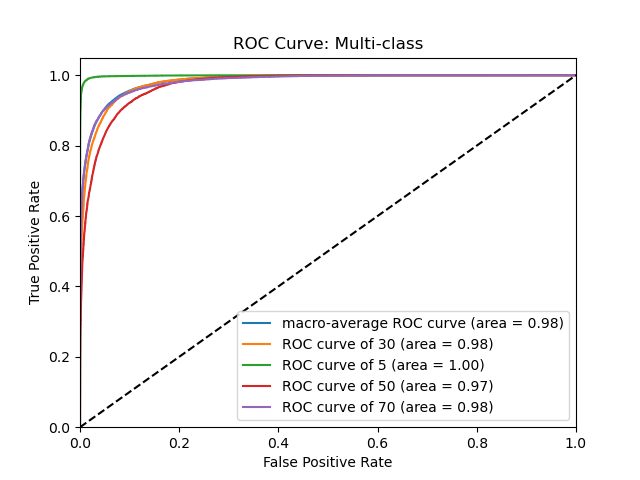
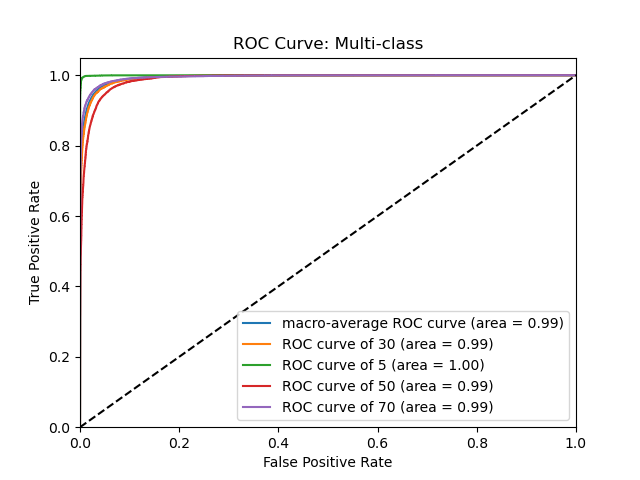
fixed issues

diff --git a/Code/config.py b/Code/config.py
@@ -24,7 +24,7 @@ config_dict = {
             "sex_type": "all",         # Options: 'all', 'male', 'female'
         },
         "Sampling": {
-            "num_samples": 289981,       # Number of samples (cells) for training (total = 289981)
+            "num_samples": 268000,       # Number of samples (cells) for training (total = 289981)
             "num_variables": 15992,    # Number of variables (genes) for training (total = 15992)
         },
         "Filtering": {
@@ -90,8 +90,8 @@ config_dict = {
     },
     "DataSplit": {
         "validation_split": 0.2,          # Fraction of data for validation
-        "test_split": 0.2,                # Fraction of data for testing
-        "random_state": 42,               # Random state for reproducibility
+        "test_split": 0.1611,                # Fraction of data for testing
+        "random_state": 999,               # Random state for reproducibility
     },
     "Training": {
         "epochs": 15,                      # Number of epochs for training

diff --git a/Code/preprocess.py b/Code/preprocess.py
@@ -468,6 +468,7 @@ class DataPreprocessor:
         config = self.config
 
         adata = self.process_adata(self.adata)
+        print(f"adata data size: {adata.shape}")
         adata_corrected = self.process_adata(self.adata_corrected)
 
         # Decide which dataset to use

diff --git a/Code/utilities.py b/Code/utilities.py
@@ -1,4 +1,5 @@
 import tensorflow as tf
+from tensorflow.keras import mixed_precision
 import os
 import scanpy as sc
 import pandas as pd
